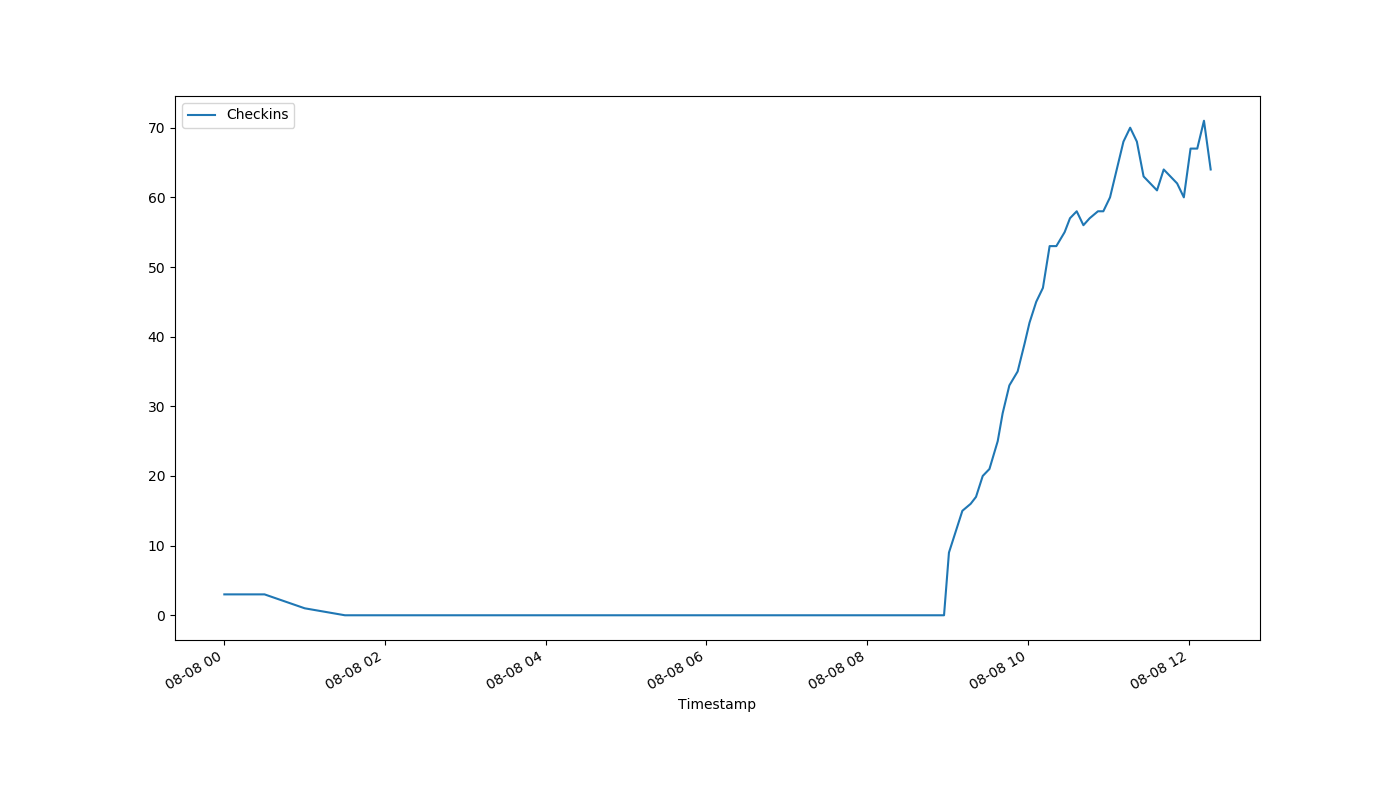
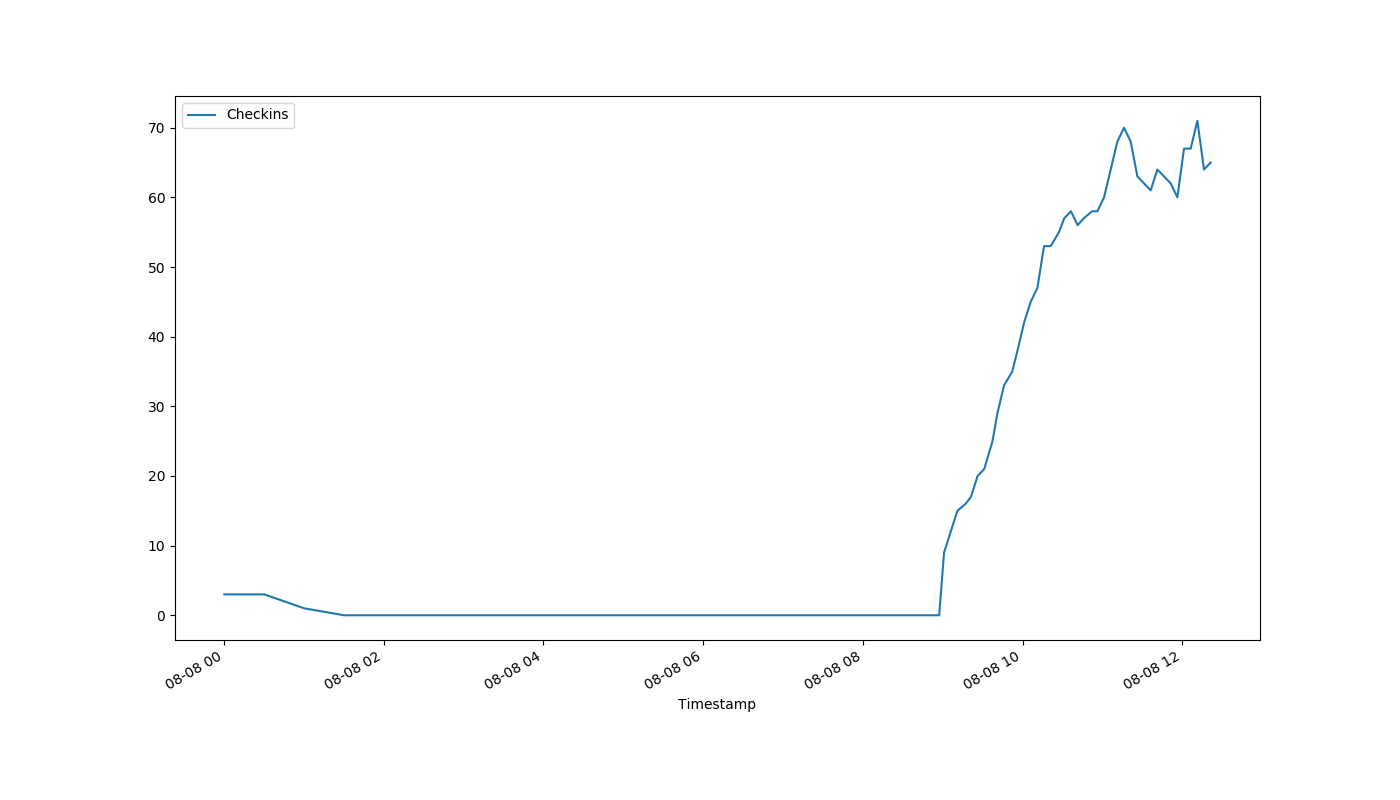
auto-Aug-08-12:23:46

diff --git a/index.html b/index.html
@@ -1,1 +1,1 @@
-<!DOCTYPE html><html><head><meta http-equiv="refresh" content="30"><link rel='stylesheet' href='holmcurrent.css'></head><body><p id='count'>64</p><div id='graph-wrap'><img id='graph' src='holmgraph-Aug-08.png'></div><p id='updated'>Last updated 12:17:11 / 12:16:17</p></body></html>
+<!DOCTYPE html><html><head><meta http-equiv="refresh" content="30"><link rel='stylesheet' href='holmcurrent.css'></head><body><p id='count'>65</p><div id='graph-wrap'><img id='graph' src='holmgraph-Aug-08.png'></div><p id='updated'>Last updated 12:22:11 / 12:21:17</p></body></html>
